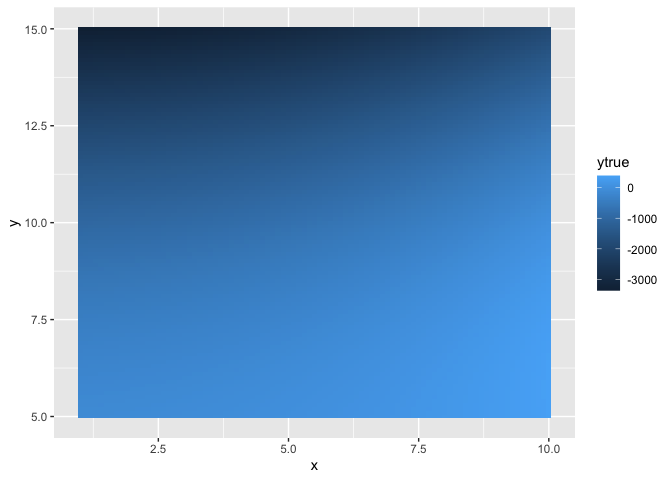
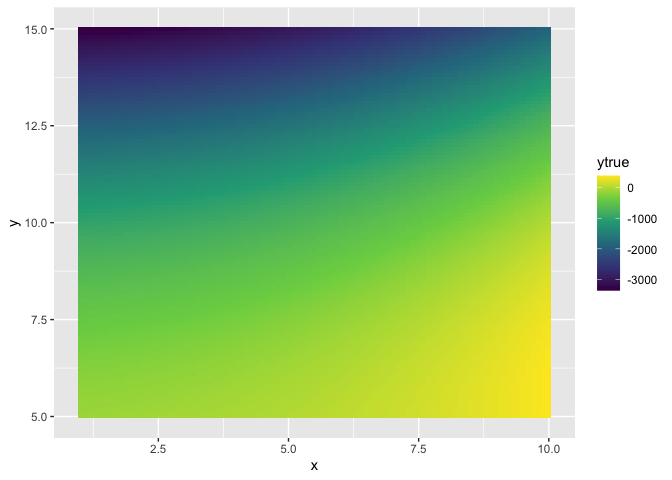
readme update

diff --git a/README.md b/README.md
@@ -6,8 +6,7 @@
 <!-- badges: start -->
 <!-- badges: end -->
 
-This package provides functions for chebyshev interpolation in 2
-dimensions
+This package provides functions for interpolation in 2 dimensions
 
 ## Installation
 
@@ -30,7 +29,7 @@ fxy <- function(x, y) {
   return(r)
 }
 
-### create 10 nodes in each dimension on (0,10) and (5,15)
+### create 10 chebyshev nodes in each dimension on (0,10) and (5,15)
 lb = c(1,5)
 ub = c(10,15)
 ss = chebstatespace(10, lb, ub)
@@ -55,8 +54,8 @@ Test and plot interpolations vs true value
 library(tidyverse)
 #> ── Attaching packages ─────────────────────────────────────── tidyverse 1.3.1 ──
 #> ✓ ggplot2 3.3.5     ✓ purrr   0.3.4
-#> ✓ tibble  3.1.3     ✓ dplyr   1.0.7
-#> ✓ tidyr   1.1.3     ✓ stringr 1.4.0
+#> ✓ tibble  3.1.6     ✓ dplyr   1.0.7
+#> ✓ tidyr   1.1.4     ✓ stringr 1.4.0
 #> ✓ readr   1.4.0     ✓ forcats 0.5.1
 #> ── Conflicts ────────────────────────────────────────── tidyverse_conflicts() ──
 #> x dplyr::filter() masks stats::filter()
@@ -69,17 +68,35 @@ df.test$ytrue <- mapply(fxy, df.test$x, df.test$y)
 df.test$yinterp <- mapply(chebpred, x = df.test$x, y = df.test$y, coefmat = list(cmat), lb = list(lb), ub = list(ub))
 
 ggplot(df.test) + 
-  geom_tile(aes(x = x, y = y, fill = ytrue))
+  geom_tile(aes(x = x, y = y, fill = ytrue)) + scale_fill_viridis_c()
 ```
 
 <img src="man/figures/README-unnamed-chunk-2-1.png" width="100%" />
 
 ``` r
 ggplot(df.test) + 
-  geom_tile(aes(x = x, y = y, fill = yinterp))
+  geom_tile(aes(x = x, y = y, fill = yinterp)) + scale_fill_viridis_c()
 ```
 
 <img src="man/figures/README-unnamed-chunk-2-2.png" width="100%" />
+Simplical and Bilinear Interpolation
+
+``` r
+x <- c(200, 300)
+y <- c(40, 45)
+df.test2 <- crossing(x, y)
+df.test2$vfx <- mapply(fxy, df.test2$x, df.test2$y)
+
+df.interp <- crossing(x = seq(200, 300, 1), y = seq(40, 45, .05))
+
+df.interp$pred_bi <- mapply(simplr, x0 = df.interp$x, y0 = df.interp$y, 
+                            x = list(df.test2$x), y = list(df.test2$y), vfx = list(df.test2$vfx), method = "bilinear")
+
+ggplot(df.interp) + 
+  geom_tile(aes(x = x, y = y, fill = pred_bi)) + scale_fill_viridis_c()
+```
+
+<img src="man/figures/README-unnamed-chunk-3-1.png" width="100%" />
 
 Reference: Judd, Kenneth. (1998). “Numerical Methods in Economics.” MIT
-Press. p238.
+Press. ch6.
